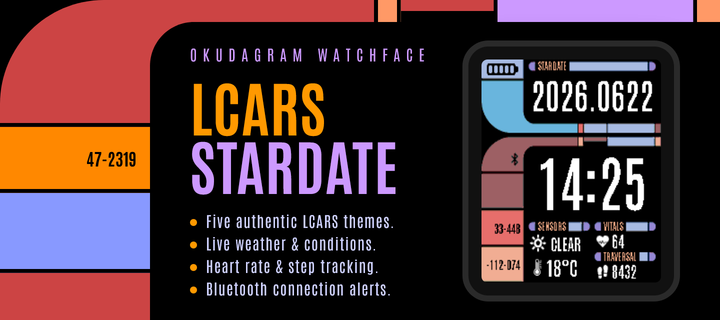
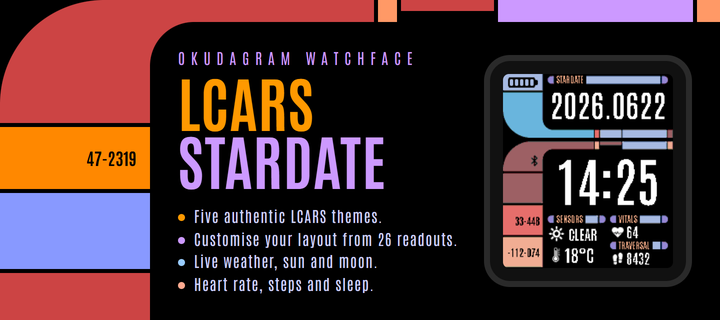
release lcars stardate 1.9.0 with ops panel docs and screenshots

diff --git a/watchfaces/lcars-stardate/src/c/dev/dev_ops.c b/watchfaces/lcars-stardate/src/c/dev/dev_ops.c
@@ -20,6 +20,34 @@
 static uint8_t s_index;
 static void (*s_apply_theme)(void);
 
+// every frame reads a different clock, because a sheet of shots all sitting on the same minute
+// looks like one screenshot pasted over and over. 53 minutes a step is coprime with the hour, so
+// the walk crosses a whole day without landing on a time twice or falling into an obvious
+// pattern, and the clock stays a function of the walk index. That last part matters: the walk
+// returns to its starting frame pixel for pixel, which is how tap-walk.sh knows it has wrapped
+#define CLOCK_BASE_MIN (7 * 60 + 38)
+#define CLOCK_STEP_MIN 53
+
+/**
+ * @brief Pin the clock to this frame's time.
+ *
+ * The time store is only ever seeded here with live off and takes no subscription on that path,
+ * so re-initialising it per tap re-seeds rather than stacking handlers.
+ *
+ * @param index The walk position.
+ */
+static void apply_clock(uint8_t index)
+{
+    int minutes = (CLOCK_BASE_MIN + index * CLOCK_STEP_MIN) % (24 * 60);
+
+    time_t now = time(NULL);
+    struct tm pinned = *localtime(&now);
+    pinned.tm_hour = minutes / 60;
+    pinned.tm_min = minutes % 60;
+    pinned.tm_sec = 0;
+    time_store_init((TimeConfig){.enabled = true, .live = false, .minute_tick = false, .beats = false}, &pinned);
+}
+
 uint8_t dev_ops_walk_pick(int slot)
 {
     // the tall weather block is the left column's own thing and sits outside the
@@ -38,19 +66,14 @@ uint8_t dev_ops_walk_pick(int slot)
 static void tap_handler(AccelAxisType axis, int32_t direction)
 {
     s_index = (uint8_t)((s_index + 1) % OPS_COUNT);
+    apply_clock(s_index);
     engine_rebuild();
 }
 
-void dev_ops_seed_stores(int hour, int min)
+void dev_ops_seed_stores(void)
 {
-    // pinned clock never ticking. mid-afternoon so the sun countdown is running to a sunset
-    // rather than sitting on a rounding edge
-    time_t now = time(NULL);
-    struct tm pinned = *localtime(&now);
-    pinned.tm_hour = hour;
-    pinned.tm_min = min;
-    pinned.tm_sec = 0;
-    time_store_init((TimeConfig){.enabled = true, .live = false, .minute_tick = false, .beats = false}, &pinned);
+    // pinned clock never ticking, moved on by the walk rather than by a tick
+    apply_clock(0);
 
     // unlike the shared fixture this fills every reading in, because a slot being photographed
     // showing "--" is a picture of nothing

diff --git a/watchfaces/lcars-stardate/src/c/dev/dev.h b/watchfaces/lcars-stardate/src/c/dev/dev.h
@@ -32,15 +32,10 @@
 #endif
 
 // ===== the fixed clock every shot shows =====
-// the ops walk wants an afternoon, so its sun countdown runs to a sunset rather than sitting on
-// the edge of a rounding step
-#if DEV_TAP_WALK_OPS
-  #define DEV_TIME_HOUR 14
-  #define DEV_TIME_MIN  23
-#else
-  #define DEV_TIME_HOUR 8   // 08:00 is a wide clock string
-  #define DEV_TIME_MIN  0
-#endif
+// the ops walk is the exception: it carries a clock per frame in dev_ops.c, so a sheet of its
+// readouts is not the same minute over and over
+#define DEV_TIME_HOUR 8   // 08:00 is a wide clock string
+#define DEV_TIME_MIN  0
 
 // which walk a tap advances (from the toggles above)
 #if DEV_TAP_WALK_THEMES
@@ -61,7 +56,7 @@ static inline bool dev_seed_stores(void)
 {
 #if DEV_MODE
 #if DEV_TAP_WALK_OPS
-    dev_ops_seed_stores(DEV_TIME_HOUR, DEV_TIME_MIN);
+    dev_ops_seed_stores();
 #elif DEV_TAP_WALK_WX
     dev_wx_seed_stores(DEV_TIME_HOUR, DEV_TIME_MIN);
 #else

diff --git a/watchfaces/lcars-stardate/src/c/dev/dev_ops.h b/watchfaces/lcars-stardate/src/c/dev/dev_ops.h
@@ -23,10 +23,10 @@
 /**
  * @brief Seed every store with a fixture that gives all of the catalog a real reading.
  *
- * @param hour The pinned clock hour (0-23).
- * @param min The pinned clock minute.
+ * The clock is the walk's own, one time per frame, so this takes no hour and minute the way the
+ * shared fixture does.
  */
-void dev_ops_seed_stores(int hour, int min);
+void dev_ops_seed_stores(void);
 
 /**
  * @brief Paint the first pair and subscribe the tap that advances them.

diff --git a/watchfaces/lcars-stardate/MODULES.md b/watchfaces/lcars-stardate/MODULES.md
@@ -1,0 +1,44 @@
+# LCARS Stardate Readouts
+
+Every readout the four ops slots can show, at each size it supports.
+
+The face has four pickable slots, two per column, under a fixed clock and stardate banner. A slot
+carries no fixed reading. What it shows comes from the catalogue below, and its bar word and glyph
+follow the pick, so changing a slot needs no new artwork for any theme.
+
+For the themes themselves, see the previews in the [README](../../README.md).
+
+## Arrangements
+
+Six ways the same four slots read. Each is a picked set rather than a mode, so any readout can go
+in any slot and you can mix them however you like.
+
+<img src="../../.github/images/lcars-stardate/ops_body.png" width="105" title="Body"> <img src="../../.github/images/lcars-stardate/ops_weather.png" width="105" title="Weather"> <img src="../../.github/images/lcars-stardate/ops_sun.png" width="105" title="Sun"> <img src="../../.github/images/lcars-stardate/ops_moon.png" width="105" title="Moon"> <img src="../../.github/images/lcars-stardate/ops_calendar.png" width="105" title="Calendar"> <img src="../../.github/images/lcars-stardate/ops_alt-time.png" width="105" title="Alternate Time">
+
+## Slot
+
+The ordinary size, and what all four slots take.
+
+| | | | | | | |
+|:--:|:--:|:--:|:--:|:--:|:--:|:--:|
+| **Heart Rate**<br>![](resources/thumbnails/heart-slot.png) | **Steps / Distance**<br>![](resources/thumbnails/steps-slot.png) | **Battery**<br>![](resources/thumbnails/battery-slot.png) | **Calories**<br>![](resources/thumbnails/calories-slot.png) | **Sleep**<br>![](resources/thumbnails/sleep-slot.png) | **Active Minutes**<br>![](resources/thumbnails/active-slot.png) | **Moon Phase %**<br>![](resources/thumbnails/moon-pct-slot.png) |
+| **Moon Phase Name**<br>![](resources/thumbnails/moon-phase-slot.png) | **Next Full / New Moon**<br>![](resources/thumbnails/moon-next-slot.png) | **Sunrise**<br>![](resources/thumbnails/sunrise-slot.png) | **Sunset**<br>![](resources/thumbnails/sunset-slot.png) | **Length of Day**<br>![](resources/thumbnails/daylight-slot.png) | **Next Sun Event**<br>![](resources/thumbnails/sun-next-slot.png) | **Humidity**<br>![](resources/thumbnails/humidity-slot.png) |
+| **Wind**<br>![](resources/thumbnails/wind-slot.png) | **UV Index**<br>![](resources/thumbnails/uv-slot.png) | **High / Low**<br>![](resources/thumbnails/hilo-slot.png) | **Julian Date**<br>![](resources/thumbnails/julian-slot.png) | **Day of Year**<br>![](resources/thumbnails/day-of-year-slot.png) | **Week Number**<br>![](resources/thumbnails/week-slot.png) | **Temperature**<br>![](resources/thumbnails/temp-slot.png) |
+| **Conditions**<br>![](resources/thumbnails/conditions-slot.png) | **Epoch Clock**<br>![](resources/thumbnails/epoch-slot.png) | **Swatch Beats**<br>![](resources/thumbnails/beats-slot.png) | **Alternate Time Zone**<br>![](resources/thumbnails/zone1-slot.png) | | | |
+
+Epoch takes no glyph on purpose. Ten digits only fit once the row hands its icon space back to the
+value, which any readout with no glyph gets. The alternate zone names its own bar from the city you
+search for, so a slot set to London reads LONDON.
+
+## Tall
+
+One readout fills a whole column instead of a slot: the condition glyph over a large temperature,
+at a size the ordinary rows cannot give it.
+
+| |
+|:--:|
+| **Sensors Block**<br>![](resources/thumbnails/sensors-tall.png) |
+
+It only goes in the upper left, which is the one column the face draws it in, and it takes the lower
+left slot with it. The builder will not let you drop it anywhere else, and the firmware makes the
+same correction, so a hand-edited setting cannot smuggle one into the right column.

diff --git a/watchfaces/lcars-stardate/CHANGELOG.md b/watchfaces/lcars-stardate/CHANGELOG.md
@@ -5,6 +5,34 @@ All notable changes to the LCARS Stardate watchface are documented in this file.
 The format is based on [Keep a Changelog](https://keepachangelog.com/en/1.1.0/),
 and this project adheres to [Semantic Versioning](https://semver.org/spec/v2.0.0.html).
 
+## [1.9.0] - 2026-08-12
+
+### Added
+
+- Added drag-and-drop panel configuration, with a preview of the watchface and available readouts.
+- Added a Default button that restores the arrangement the watchface ships with, and a Clear button that empties all four panels.
+- Added LCARS-styled settings matching the watchface.
+- Added support for splitting the left column into two panels.
+- Added moon readouts for illumination, phase, and days until the next full or new moon.
+- Added sun readouts for sunrise, sunset, daylight duration, and countdowns to the next sunrise or sunset.
+- Added weather readouts for humidity, wind, UV index, and daily high and low.
+- Added readouts for battery level, calories, sleep, and active minutes.
+- Added calendar readouts for Julian date, day of year, and week number.
+- Added an Epoch Clock readout showing the raw Unix time.
+- Added a Swatch Beats readout, so you can see internet time without setting the main clock to it.
+- Added an Alternate Time Zone readout. Search for a city under Location Settings and the panel shows that city's time under its name.
+
+### Changed
+
+- Panel bars are now drawn by the watchface and take their colour from the theme, reducing the artwork by about a third.
+- Redrew the battery and active minutes icons. The battery bolt was a doubled glyph that turned to mush at panel size, and active minutes now has a runner rather than a plain clock.
+- Sleep, active minutes, and calories are read from the watch again now that they can be displayed.
+- Upgrading preserves the existing layout, with panels starting on weather, heart rate, and steps.
+
+### Fixed
+
+- Fixed the partly cloudy icon sitting against the panel bar above it.
+
 ## [1.8.0] - 2026-08-03
 
 ### Changed
